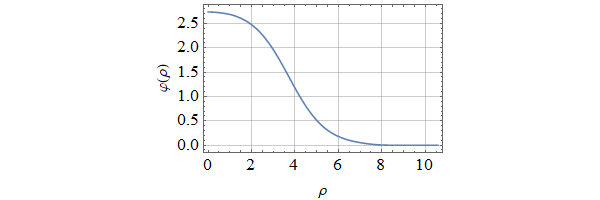
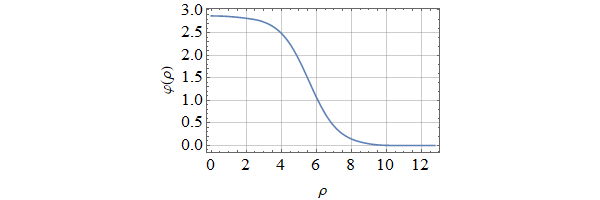
Update README with default "Dimension" in usage example

diff --git a/README.md b/README.md
@@ -62,14 +62,17 @@ Use the main function `FindBounce` to calculate the bounce configuration contain
 It can be queried about different properties, like the Euclidean action.
 
  ```mathematica
-bf = FindBounce[potential[x], {x}, {0., 2.882}, "Dimension" -> 3]
+bf = FindBounce[potential[x], {x}, {0., 2.883}]
 (* Returns BounceFunction[...]*)
 
 bf["Action"]
-(* 95.1162 *)
+(* 1515.5 *)
+
+bf["Dimension"]
+(* 4 *)
 
 bf["Properties"]
-(* {"Action", "Coefficients", "Dimension", "Domain", "InitialSegment",  "Path", "Potential", "Radii", "Segments"} *)
+(* {"Action", "Coefficients", "Dimension", "Domain", "InitialSegment",  "Path", "Potential", "Radii",...} *)
  ```
 
 Plot the bounce field configuration.
